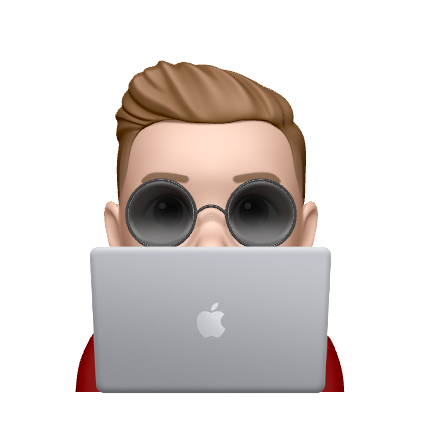
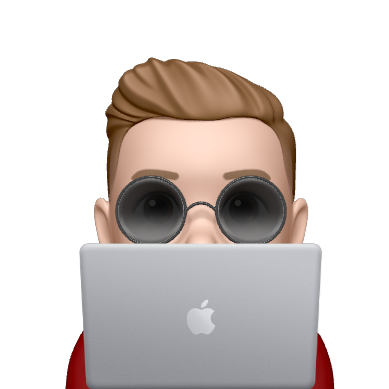
Header Updates

Changed region(s): [[0.1542, 0.1234, 0.8638, 1.0], [0.4627, 0.7095, 0.5553, 0.8638]]

diff --git a/components/Header.js b/components/Header.js
@@ -7,7 +7,7 @@ import { useLocale } from '@/lib/locale'
 const NavBar = () => {
   const locale = useLocale()
   const links = [
-    { id: 0, name: 'Clark.Today', to: 'https://www.clark.today', show: false },
+    { id: 0, name: 'Clark.Today', to: 'https://www.clark.today', show: true },
     { id: 1, name: locale.NAV.INDEX, to: BLOG.path || '/', show: true },
     { id: 2, name: locale.NAV.ABOUT, to: '/about', show: BLOG.showAbout },
     { id: 3, name: locale.NAV.RSS, to: '/feed', show: false },
@@ -71,8 +71,9 @@ const Header = ({ navBarTitle, fullWidth }) => {
         <div className="flex items-center">
           <Link href="/">
             <a aria-label={BLOG.title}>
-              <div className="text-white text-4xl">
-                <Image src={BLOG.icon} className="siteIcon" alt="Memoji of Clark."/>
+              <div className="text-white text-2xl">
+                <Image width={48} height={48} src={BLOG.icon} className="siteIcon" alt="Memoji of Clark."/>
+                <span className="nav-name">Clark Weckmann</span>
               </div>
             </a>
           </Link>

diff --git a/styles/globals.css b/styles/globals.css
@@ -78,9 +78,14 @@ body::-webkit-scrollbar-thumb {
 }
 
 .sticky-nav-full > div > a > div > .siteIcon {
-  max-width: 2rem;
+  max-width: 2rem!important;
   transition: all 0.5s cubic-bezier(0.4, 0, 0, 1);
   margin: .75rem;
+  
+}
+.sticky-nav-full > div > a > div > .nav-name {
+  transition: all 0.5s cubic-bezier(0.4, 0, 0, 1);
+  display: none;
   
 }
 
@@ -125,8 +130,8 @@ nav {
   user-select: none;
 }
 .siteIcon {
-  max-width:5rem;
-  width: 100%;
+  max-width:5rem!important;
+  width: 100%!important;
 }
 
 @media (min-width: 768px) {
